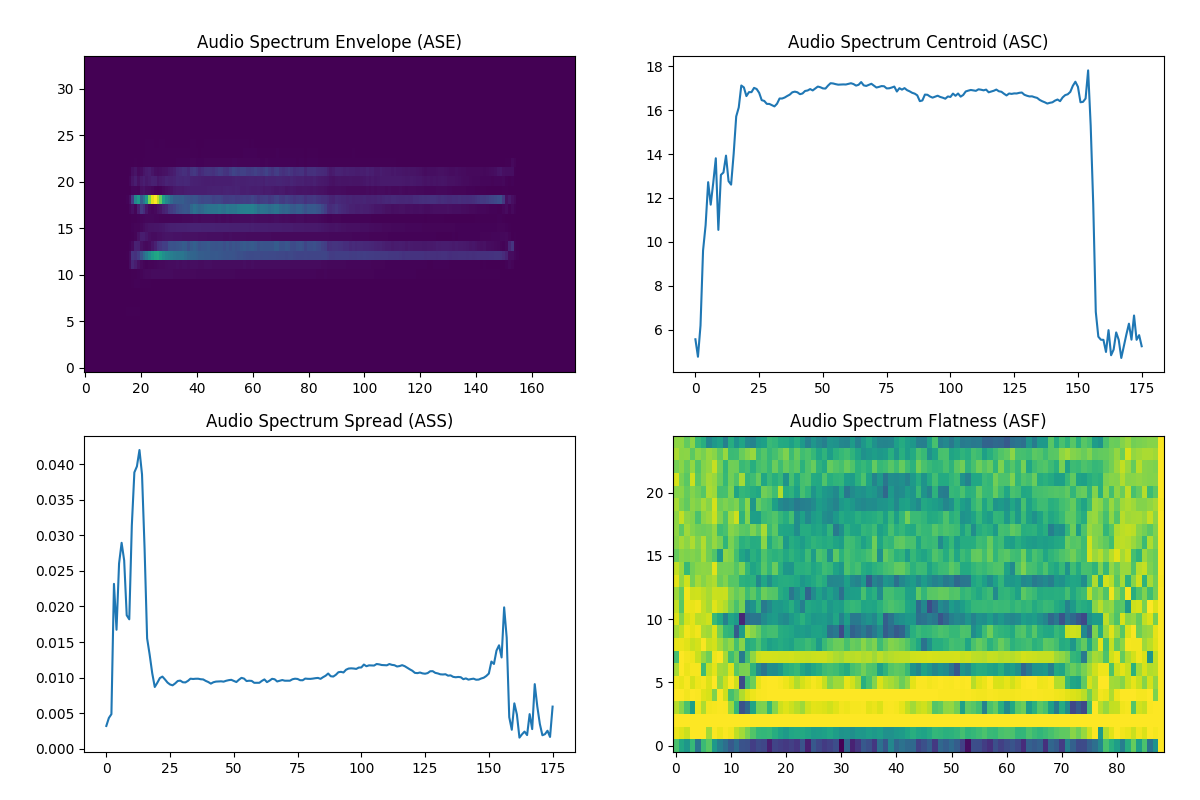
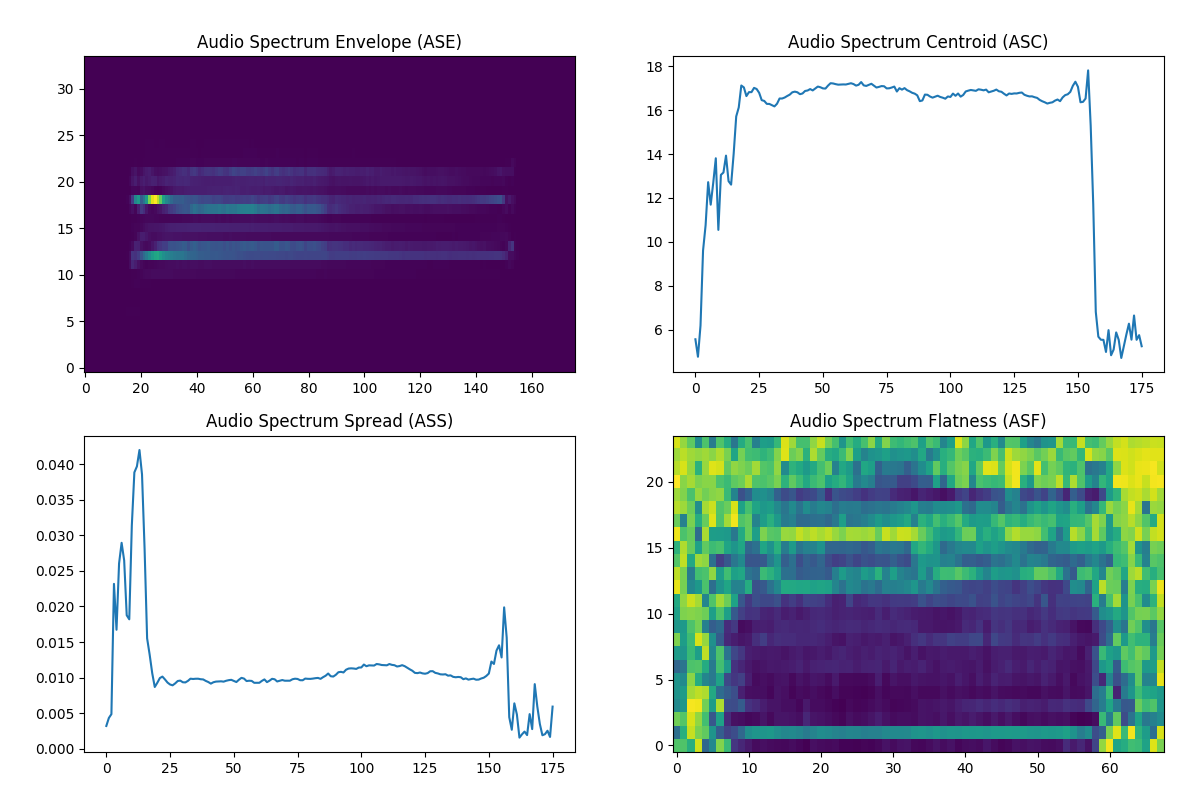
paused MPEG-7 and retaking old layout for descriptors

Changed region(s): [[0.5242, 0.5312, 0.9867, 0.9688]]

diff --git a/thesis/chapters/1_features/temporal-features.tex b/thesis/chapters/1_features/temporal-features.tex
@@ -1,15 +1,89 @@
-Este tipo de características son de las más simples y se computan directamente a partir de la señal digitalizada.
-Algunas de las más comunes son:
+Este tipo de características, que describen las propiedades de la señal en el dominio del tiempo, son muy simples;
+y se computan directamente a partir de la señal digitalizada.
 
-\begin{enumerate}
-    \item \textbf{Zero crossing rate}: Está dado por el número de veces que la amplitud de la señal cambia de signo.
-    \[
-        ZCR = \frac{1}{2}\sum_{n=1}^{N-1}{|\text{sign}(x[n]) - \text{sign}(x[n-1])|}
-    \]
-    donde $\text{sign}(x[n])$ es el signo de la amplitud de la muestra $n$-ésima de la señal.
-    \item \textbf{Autocorrelación}: Coeficientes que pueden ser interpretados como la distribución espectral de la señal en el dominio del tiempo.
-    Los primeros $k$ coeficientes pueden ser obtenidos mediante la fórmula
-    \[
-        R(k) = \frac{\sum_{n=0}^{N-k-1}{x[n]x[n+k]}}{\sqrt{\sum_{n=0}^{N-k-1}{x[n]^2}}\sqrt{\sum_{n=0}^{N-k-1}{x[n+k]^2}}}
-    \]
-\end{enumerate}
+\subsubsection{Log-Attack Time}
+
+El \textit{attack} de una señal se define como el espacio de tiempo, al inicio de esta, en que su intensidad va en ascenso.
+
+El \textit{log-attack time} (LAT) de una señal se calcula entonces como el logaritmo en base 10 de la duración del intervalo de tiempo transcurrido entre los momentos en que la señal se hace audible ($stopAttack$) y en que alcanza su máxima intensidad ($startAttack$):
+
+\begin{equation}
+    \label{eq:LAT}
+    LAT = \log_{10}{(stopAttack - startAttack)}
+\end{equation}
+
+Los momentos $stopAttack$ y $startAttack$ suelen definirse como los puntos en que la potencia de la señal alcanza el 20\% y el 90\% de su máximo respectivamente.
+
+\subsubsection{Audio Waveform}
+
+Para computar esta característica se divide la señal en tramas no superpuestas ($M = N$), y se computan, por cada trama, los 2 valores siguientes:
+
+\begin{itemize}
+    \item Menor valor de amplitud de la señal presente en la trama.
+    \item Mayor valor de amplitud de la señal presente en la trama.
+\end{itemize}
+
+El \textit{audio waveform} (AWF) de la señal consistirá en un vector con los pares calculados, correspondientes a cada una de dichas tramas.
+
+La extracción de esta característica puede ser vista como un modo de <<compresión>> de la señal.
+Si se toma $N=1$ se obtendrá la propia señal, mientras que a medida que se seleccionen valores de $N$ más altos, el número de valores resultantes será cada vez menor, obteniéndose una representación reducida de la señal original.
+El AWF puede representarse gráficamente como un conjunto de segmentos con extremos en los valores de la tupla correspondiente y desplazados en el tiempo relativo a su posición en la señal (figura~\ref{img:awf+ap}).
+
+\subsubsection{Audio Power}
+
+El \textit{audio power} (AP) describe el comportamiento de la potencia de la señal en cada instante de tiempo.
+Al igual que para la AWF, su cálculo requiere dividir la señal en tramas no superpuestas;
+y se computa, para la trama $x[n]$ mediante la siguiente expresión:
+
+\begin{equation}
+    \label{eq:AP}
+    AP = \frac{1}{N}\sum_{n=0}^{N-1}{|x[n]|^2}
+\end{equation}
+
+La representación gráfica del AP posibilita el análisis directo de la evolución de la amplitud de la señal en el transcurso del tiempo, lo que puede observarse en la figura~\ref{img:awf+ap}.
+
+\begin{figure}[!h]
+    \centering
+    \includegraphics[width=\textwidth]{awf+ap.png}
+    \caption{Dos características temporales básicas de una señal de audio: \textit{Audio Waveform} y \textit{Audio Power}.}
+    \label{img:awf+ap}
+\end{figure}
+
+\subsubsection{Temporal Centroid}
+
+El \textit{temporal centroid} (TC) de la señal es el punto donde se localiza el centro de gravedad de su AP\@.
+Se calcula mediante la siguiente expresión:
+
+\begin{equation}
+    \label{eq:TC}
+    TC = \frac{\sum_{t=0}^{T-1}{AP_t \cdot t}}{\sum_{t=0}^{T-1}{AP_t}}
+\end{equation}
+
+\noindent
+donde $T$ es la cantidad de tramas en que se descompuso la señal.
+
+\subsubsection{Effective Duration}
+
+La \textit{effective duration} (ED) de una señal constituye la duración del intervalo de tiempo en que esta es perceptible.
+Generalmente se considera como el intervalo en que la amplitud de la señal permanece por encima del 40\% de su máximo valor.
+
+\subsubsection{Auto-correlation}
+
+La \textit{auto-correlation} (AC) de la señal está dada por un vector de coeficientes que describen su distribución espectral en el dominio del tiempo.
+El coeficiente $k$-ésimo se calcula mediante la expresión:
+
+\begin{equation}
+    \label{eq:AC}
+    AC_k = \frac{1}{x[0]^2}\sum_{n=0}^{N-k-1}{x[n]\cdot x[n+k]}
+\end{equation}
+
+\subsubsection{Zero Crossing Rate}
+
+El \textit{zero crossing rate} (ZCR) es una medida del número de veces que la amplitud de la señal cambia de signo.
+Los sonidos periódicos tienden a tener un pequeño valor de ZCR, mientras que para los ruidos este valor suele ser alto.
+Puede ser computado de forma global, o para cada trama de la señal, aplicando la siguiente expresión:
+
+\begin{equation}
+    \label{eq:ZCR}
+    ZCR = \frac{1}{2}\sum_{n=1}^{N-1}{|\text{sign}(x[n]) - \text{sign}(x[n-1])|}
+\end{equation}

diff --git a/code/mpeg7.py b/code/mpeg7.py
@@ -1,34 +1,63 @@
-from math import ceil
+import math
 
 import essentia
+import numpy as np
 import pylab as pl
 from essentia.standard import MonoLoader, Windowing, Spectrum, FrameGenerator, InstantPower, FrequencyBands, Centroid, \
     CentralMoments, Flatness
 from matplotlib import collections as mc
 
 
-def get_freq_bands(lo_edge, hi_edge, band_resolution, overlap=0.0):
+def get_log_freq_bands(lo_edge, hi_edge, band_resolution):
     freq_bands = [0]
     current = lo_edge
     b = 1
     while current <= hi_edge:
         freq_bands.append(current)
-        current = (1 + overlap) * lo_edge * 2 ** (b * band_resolution)
+        current = lo_edge * 2 ** (b * band_resolution)
         b += 1
     freq_bands.append(22050)
     return freq_bands
 
 
-def bands_flatness(x):
+def bands_flatness(x, lo_edge=250, hi_edge=16000, fs=44100, n=1024):
     flatness = Flatness()
-    freq_bands = get_freq_bands(250, 16000, 0.25, overlap=0.05)
+    numbands = int(math.floor(4 * math.log2(hi_edge / lo_edge)))
+    firstband = round(math.log2(lo_edge / 1000) * 4)
+    overlap = 0.5
+    gm, am = [], []
 
-    result = []
-    kl = 0
-    for kh in sorted(set(map(lambda f: ceil(1024 * f / 44100 + 1e-6), freq_bands[1:]))):
-        result.append(flatness(x[kl:kh]))
-        kl = kh
-    return result
+    grpsize = 1
+    for k in range(1, numbands + 1):
+        f_lo = lo_edge * (2 ** ((k - 1) / 4)) * (1 - overlap)
+        f_hi = lo_edge * (2 ** (k / 4)) * (1 + overlap)
+        i_lo = round(f_lo / (fs / n)) + 1
+        i_hi = round(f_hi / (fs / n)) + 1
+
+        # Rounding of upper index according due to coefficient grouping
+        if k + firstband - 1 >= 0:  # start grouping at 1 kHz
+            grpsize = 2 ** math.ceil((k + firstband) / 4)
+            i_hi = round((i_hi - i_lo + 1) / grpsize) * grpsize + i_lo - 1
+        else:
+            grpsize = 1
+        tmp = x[i_lo - 1:i_hi, :]  # ** 2  # PSD coefficients
+        ncoeffs = i_hi - i_lo + 1
+
+        if k + firstband - 1 >= 0:  # Coefficient grouping
+            tmp2 = tmp[:grpsize:ncoeffs, :]
+            for g in range(2, grpsize + 1):
+                tmp2 += tmp[g - 1:grpsize:ncoeffs, :]
+            tmp = tmp2
+
+        # Actual calculation
+        ncoeffs /= grpsize
+        tmp += 1e-50  # avoid underflow for zero signals
+        gm_k = np.exp(np.sum(np.log(tmp), 1) / ncoeffs)  # log processing avoids overflow
+        gm.append(np.resize(gm_k, numbands))
+        am_k = np.sum(tmp, 1) / ncoeffs
+        am.append(np.resize(am_k, numbands))
+
+    return np.array(gm) / np.array(am)
 
 
 def main():
@@ -61,7 +90,7 @@ def main():
 
     # BASIC SPECTRAL DESCRIPTORS
 
-    freq_bands = get_freq_bands(62.5, 16000, 2 ** -2)
+    freq_bands = get_log_freq_bands(62.5, 16000, 2 ** -2)
 
     w = Windowing(type='hann')
     spectrum = Spectrum()  # FFT() would return the complex FFT, here we just want the magnitude spectrum
@@ -78,12 +107,19 @@ def main():
 
     for frame in FrameGenerator(audio, frameSize=1024, hopSize=1024, startFromZero=True):
         spec = spectrum(w(frame))
-        pool.add('ASF', bands_flatness(spec))
+        pool.add('Spec', spec)
+
+    asf = bands_flatness(pool['Spec'].T)
+
+    # with open('../sounds/sheep_ASF.txt') as file:
+    #     content = file.read().split()
+    #     asf = np.array(list(map(float, content)))
+    #     asf = asf.reshape((68, 24))
 
     fig, ax = pl.subplots(2, 2, figsize=(12, 8))
     fig.subplots_adjust(left=0.07, right=0.97, bottom=0.06, top=0.93)
 
-    ax[0, 0].imshow(pool['ASE'].T[:, :], aspect='auto', origin='lower', interpolation='none')
+    ax[0, 0].imshow(pool['ASE'].T, aspect='auto', origin='lower', interpolation='none')
     ax[0, 0].set_title('Audio Spectrum Envelope (ASE)')
 
     ax[0, 1].plot(pool['ASC'])
@@ -92,7 +128,7 @@ def main():
     ax[1, 0].plot(pool['ASS'])
     ax[1, 0].set_title('Audio Spectrum Spread (ASS)')
 
-    ax[1, 1].imshow(pool['ASF'].T[:, :], aspect='auto', origin='lower', interpolation='none')
+    ax[1, 1].imshow(asf, aspect='auto', origin='lower', interpolation='none')
     ax[1, 1].set_title('Audio Spectrum Flatness (ASF)')
 
     fig.show()

diff --git a/thesis/chapters/1_features/mpeg7.tex b/thesis/chapters/1_features/mpeg7.tex
@@ -138,19 +138,19 @@ Puede calcularse aplicando la siguiente expresión en cada trama:
 \noindent
 donde $K$ es el tamaño del vector correspondiente al ASE de la trama.
 
-Valores bajos (característicos de sonidos harmónicos) del ASS expresan una concentración de las amplitudes alrededor de la frecuencia centroide;
+Valores bajos (característicos de sonidos armónicos) del ASS expresan una concentración de las amplitudes alrededor de la frecuencia centroide;
 los valores altos (propios de ruidos), en cambio, muestran una dispersión de las amplitudes en un rango de frecuencias mayor.
 
 \subsubsection{Audio Spectrum Flatness}
 
 El \textit{audio spectrum flatness} (ASF) de una señal refleja su similitud a una señal compuesta por ruido, caso en que su valor se aproxima a 1;
-mientras que si se trata de una señal harmónica, el valor será próximo a 0.
+mientras que si se trata de una señal armónica, el valor será próximo a 0.
 
-Para calcular el ASF, de acuerdo con el estándar MPEG-7, se divide la señal en tramas no superpuestas, y el espectro se separa en bandas con $loEdge = 250$ Hz y $hiEdge = 16$ kHz.
+Para calcular el ASF, de acuerdo con el estándar MPEG-7, se divide la señal en tramas no superpuestas, y el espectro se separa en bandas en el intervalo $[loEdge, hiEdge]$ con $loEdge = 250$ Hz y $hiEdge = 16$ kHz.
 Los extremos de cada banda se determinan por las ecuaciones:
 
 \begin{gather*}
-    loF_b = 0.95 \cdot loEdge \cdot 2^{\frac{1}{4}(b-1)} \\
+    loF_b = 0.95 \cdot loEdge \cdot 2^{\frac{1}{4}(b-1)}\\
     hiF_b = 1.05 \cdot loEdge \cdot 2^{\frac{1}{4}b}
 \end{gather*}
 
@@ -160,17 +160,25 @@ El coeficiente correspondiente a la banda $b$ en el ASF se calcula como la razó
 
 \begin{equation}
     \label{eq:ASF}
-    ASF_b = \frac{\prod_{k=0}^{K-1}{|X_{b}[k]|}}{\frac{1}{K}\sum{k=0}^{K-1}{|X_{b}[k]|}}
+    ASF_b = \frac{\prod_{k=0}^{K-1}{|X_{b}[k]|}^{\frac{1}{K}}}{\frac{1}{K}\sum_{k=0}^{K-1}{|X_{b}[k]|}}
 \end{equation}
 
 \noindent
-donde $X_{b}[k]$ es la subsecuencia de la DFT de la señal correspondiente a las frecuencias que pertenecen a la banda $b$, y $K$ su cardinalidad.
+donde $X_{b}[k]$ son las energías correspondientes a las frecuencias que pertenecen a la banda $b$, y $K$ su cardinalidad.
 
 La matriz de los ASF es un buen identificador para una señal, y el vector formado por los promedios de los ASF de cada trama puede ser empleado como vector de características en aplicaciones de clasificación de señales de audio~\cite{Kim05}.
 
 \begin{figure}[!h]
     \centering
-    \includegraphics[width=0.9\textwidth]{basic-spectral-descriptors.png}
+    \includegraphics[width=0.85\textwidth]{basic-spectral-descriptors.png}
     \caption{Características espectrales básicas de una señal de audio según MPEG-7.}
     \label{img:basic-spectral-descriptors}
 \end{figure}
+
+\subsection{Parámetros básicos de una señal}\label{subsec:basicSignalParameters}
+
+Las características incluidas en esta categoría persiguen describir la señal en términos de su harmonicidad, es decir, su constitución en términos de señales armónicas. % TODO Am I right?
+
+\subsubsection{Audio Harmonicity}
+
+

diff --git a/thesis/chapters/1_features/features.tex b/thesis/chapters/1_features/features.tex
@@ -55,12 +55,12 @@ y las operaciones de procesamiento y extracción de características que se menc
 \section{Tramas}\label{sec:frames}
 \input{chapters/1_features/frames}
 
-\section{Características de bajo nivel de MPEG-7}\label{sec:mpeg7}
-\input{chapters/1_features/mpeg7}
+%\section{Características de bajo nivel de MPEG-7}\label{sec:mpeg7}
+%\input{chapters/1_features/mpeg7}
 
-%\section{Características temporales}\label{sec:característicasTemporales}
-%\input{chapters/1_features/temporal-features}
-%
+\section{Características temporales}\label{sec:característicasTemporales}
+\input{chapters/1_features/temporal-features}
+
 %\section{Características espectrales}\label{sec:característicasEspectrales}
 %\input{chapters/1_features/spectral-features}
 
